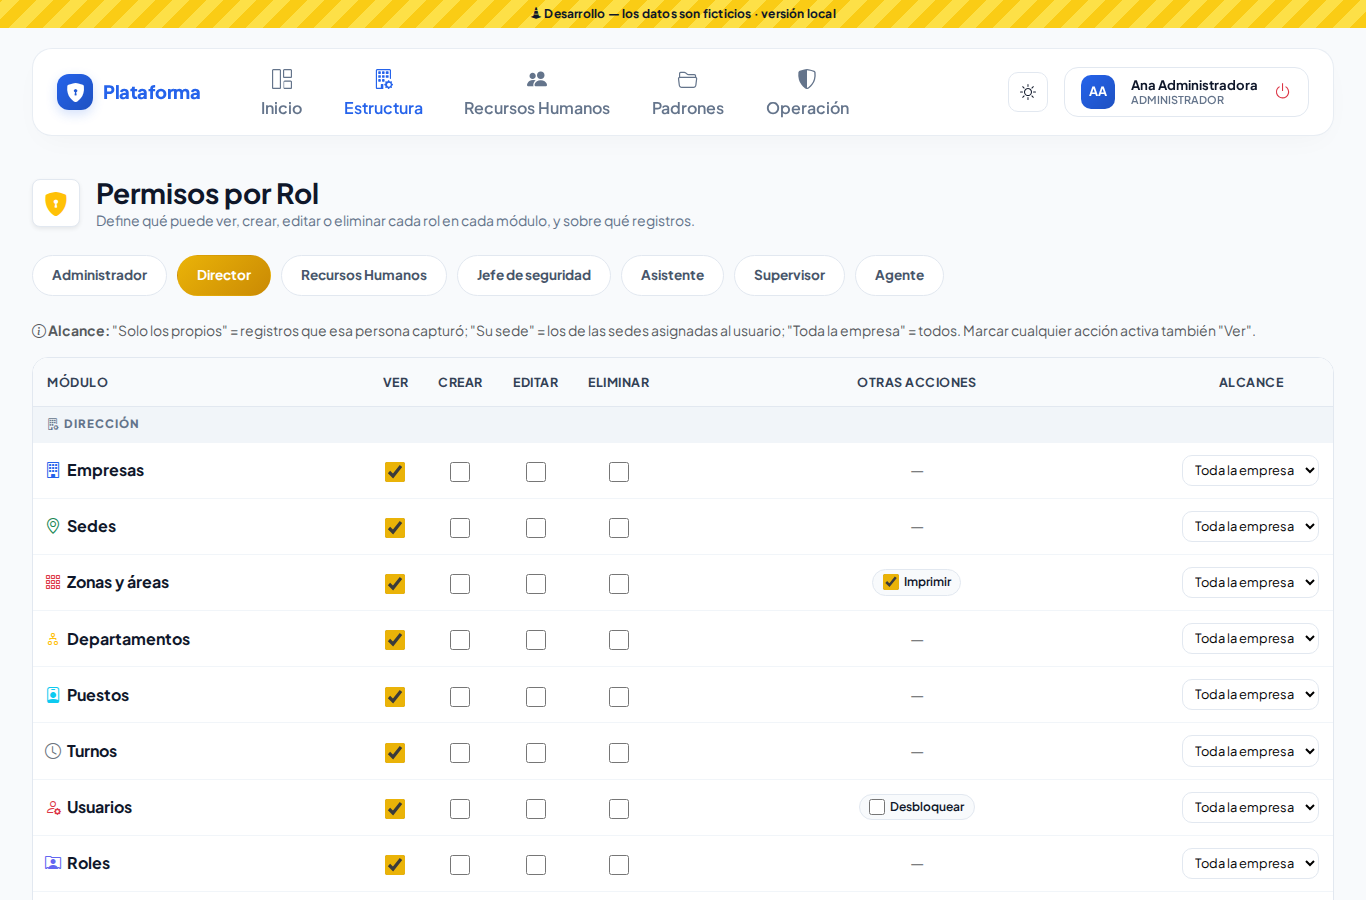
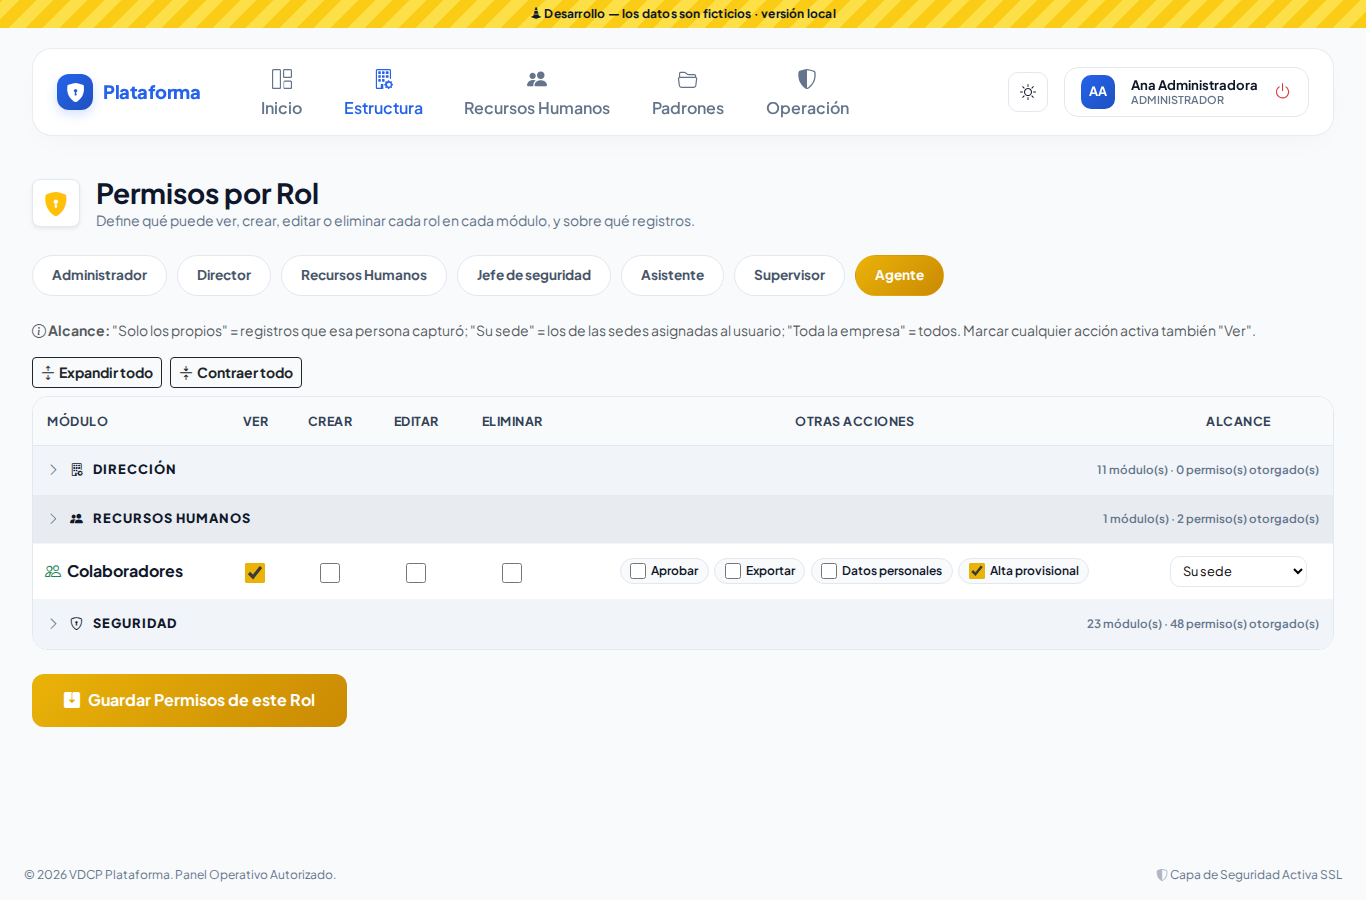
Sedes en todos los rubros y Matriz de permisos contraíble por área
- La sede se llama «Sede» en todos los rubros (antes Hoteles, Plantas, Torres o Privadas)
- Matriz de permisos: áreas Dirección, Recursos Humanos y Seguridad contraíbles, con resumen de módulos y permisos otorgados; Expandir/Contraer todo; recuerda las áreas abiertas
- Documentación y pruebas

Claude-Session: https://claude.ai/code/session_01HFWbyfgzN5Xp5ra6LHaA61

diff --git a/public/js/plataforma.js b/public/js/plataforma.js
@@ -1022,3 +1022,46 @@ document.addEventListener('click', function (e) {
     }
     dialogo.showModal();
 });
+
+/* Matriz de permisos: cada área (Dirección, Recursos Humanos, Seguridad) se abre y se cierra.
+   Se recuerda qué áreas dejó abiertas en la pestaña del navegador. */
+(function () {
+    'use strict';
+    var CLAVE = 'plataforma_areas_abiertas';
+
+    function abiertas() {
+        try { return JSON.parse(sessionStorage.getItem(CLAVE) || '[]'); } catch (x) { return []; }
+    }
+    function guardar() {
+        var ids = [];
+        document.querySelectorAll('[data-alternar-area][aria-expanded="true"]').forEach(function (b) { ids.push(b.dataset.alternarArea); });
+        try { sessionStorage.setItem(CLAVE, JSON.stringify(ids)); } catch (x) { /* sin almacenamiento */ }
+    }
+    function poner(boton, abrir) {
+        var cuerpo = document.getElementById(boton.dataset.alternarArea);
+        if (!cuerpo) { return; }
+        cuerpo.hidden = !abrir;
+        boton.setAttribute('aria-expanded', String(abrir));
+    }
+
+    document.addEventListener('click', function (e) {
+        var boton = e.target.closest('[data-alternar-area]');
+        if (boton) {
+            poner(boton, boton.getAttribute('aria-expanded') !== 'true');
+            guardar();
+            return;
+        }
+        var todas = e.target.closest('[data-areas-todas]');
+        if (todas) {
+            document.querySelectorAll('[data-alternar-area]').forEach(function (b) { poner(b, todas.dataset.areasTodas === 'abrir'); });
+            guardar();
+        }
+    });
+
+    document.addEventListener('DOMContentLoaded', function () {
+        var botones = document.querySelectorAll('[data-alternar-area]');
+        if (botones.length === 0) { return; }
+        var previas = abiertas();
+        botones.forEach(function (b) { poner(b, previas.indexOf(b.dataset.alternarArea) !== -1); });
+    });
+})();

diff --git a/public/css/plataforma.css b/public/css/plataforma.css
@@ -533,3 +533,12 @@ html.modo-noche .aviso-pendiente .icono { background: rgba(245, 158, 11, 0.2); c
 html.modo-noche .aviso-pendiente .boton { color: #fcd34d; }
 html.modo-sol .aviso-pendiente { background: #fff; border: 3px solid #000; color: #000; }
 html.modo-sol .aviso-pendiente .icono, html.modo-sol .aviso-pendiente .boton { color: #000; background: #fff; }
+
+/* Matriz de permisos: áreas contraíbles */
+.tabla-permisos tr.fila-area td { padding: 0; }
+.alternar-area { display: flex; align-items: center; gap: 0.55rem; width: 100%; min-height: 48px; padding: 0.6rem 0.9rem; background: transparent; border: none; text-align: left; font: inherit; font-size: 0.8rem; font-weight: 800; text-transform: uppercase; letter-spacing: 1px; color: var(--texto); cursor: pointer; }
+.alternar-area:hover { background: rgba(15, 23, 42, 0.04); }
+.alternar-area .flecha { transition: transform 0.2s; color: var(--texto-suave); }
+.alternar-area[aria-expanded="true"] .flecha { transform: rotate(90deg); }
+.alternar-area .resumen-area { margin-left: auto; font-size: 0.72rem; font-weight: 600; text-transform: none; letter-spacing: 0; color: var(--texto-suave); }
+@media (max-width: 575.98px) { .alternar-area .resumen-area { display: none; } }

diff --git a/resources/views/administracion/permisos/index.blade.php b/resources/views/administracion/permisos/index.blade.php
@@ -50,6 +50,11 @@
             @csrf
             @method('PUT')
 
+            <div class="d-flex flex-wrap gap-2 mb-2">
+                <button type="button" class="btn btn-sm btn-outline-dark fw-bold" data-areas-todas="abrir"><i class="bi bi-arrows-expand me-1" aria-hidden="true"></i>Expandir todo</button>
+                <button type="button" class="btn btn-sm btn-outline-dark fw-bold" data-areas-todas="cerrar"><i class="bi bi-arrows-collapse me-1" aria-hidden="true"></i>Contraer todo</button>
+            </div>
+
             <div class="tabla-scroll">
                 <table class="tabla-permisos">
                     <thead>
@@ -62,10 +67,25 @@
                             <th scope="col">Alcance</th>
                         </tr>
                     </thead>
-                    <tbody>
-                        @foreach ($areas as $area)
-                            <tr class="fila-area"><td colspan="{{ count($basicas) + 3 }}"><i class="bi {{ $area->icono }} me-1" aria-hidden="true"></i>{{ $area->nombre }}</td></tr>
-
+                    @foreach ($areas as $area)
+                        @php
+                            $idsArea = $area->modulosVisibles->pluck('id');
+                            $otorgados = $idsArea->sum(fn ($id) => ($actuales[$id] ?? collect())->count());
+                        @endphp
+                        {{-- Cada área se contrae: un tbody para el título y otro para sus módulos --}}
+                        <tbody>
+                            <tr class="fila-area">
+                                <td colspan="{{ count($basicas) + 3 }}">
+                                    <button type="button" class="alternar-area" data-alternar-area="area-{{ $area->clave }}" aria-controls="area-{{ $area->clave }}" aria-expanded="false">
+                                        <i class="bi bi-chevron-right flecha" aria-hidden="true"></i>
+                                        <i class="bi {{ $area->icono }}" aria-hidden="true"></i>
+                                        <span>{{ $area->nombre }}</span>
+                                        <span class="resumen-area" data-resumen-area>{{ $area->modulosVisibles->count() }} módulo(s) · {{ $otorgados }} permiso(s) otorgado(s)</span>
+                                    </button>
+                                </td>
+                            </tr>
+                        </tbody>
+                        <tbody id="area-{{ $area->clave }}" class="modulos-area" hidden>
                             @foreach ($area->modulosVisibles as $modulo)
                                 @php
                                     $tiene = ($actuales[$modulo->id] ?? collect())->keyBy('accion');
@@ -128,8 +148,8 @@
                                     </td>
                                 </tr>
                             @endforeach
-                        @endforeach
-                    </tbody>
+                        </tbody>
+                    @endforeach
                 </table>
             </div>
 

diff --git a/tests/Feature/Direccion/PendientesDireccionTest.php b/tests/Feature/Direccion/PendientesDireccionTest.php
@@ -5,6 +5,8 @@ namespace Tests\Feature\Direccion;
 use App\Models\Auditoria;
 use App\Models\Colaborador;
 use App\Models\Empresa;
+use App\Models\Rol;
+use App\Models\Rubro;
 use App\Models\Sede;
 use App\Models\User;
 use App\Services\Permisos\AdministradorRoles;
@@ -128,5 +130,29 @@ class PendientesDireccionTest extends TestCase
 
         $this->actingAs($rh)->get('/')->assertSee('1 alta provisional por validar')->assertSee('registro=provisional', false);
         $this->assertSame(1, app(Tenant::class)->conEmpresa($this->empresa->id, fn () => Colaborador::where('provisional', true)->count()));
+    }
+
+    // ------------------------------------------- Sedes y Matriz contraíble
+
+    public function test_las_sedes_se_llaman_sedes_en_todos_los_rubros(): void
+    {
+        foreach (Rubro::all() as $rubro) {
+            $this->assertSame('Sede', $rubro->terminologia['sede'], $rubro->clave);
+            $this->assertSame('Sedes', $rubro->terminologia['sedes'], $rubro->clave);
+        }
+        $this->actingAs($this->admin)->get('/sedes')->assertSee('Alta Sedes')->assertSee('Nueva Sede')->assertDontSee('Hoteles');
+    }
+
+    public function test_la_matriz_agrupa_por_area_contraible_con_resumen(): void
+    {
+        $agente = Rol::where('empresa_id', $this->empresa->id)->where('nombre', 'Agente')->firstOrFail();
+
+        $this->actingAs($this->admin)->get("/permisos?rol={$agente->id}")->assertOk()
+            ->assertSee('data-alternar-area="area-direccion"', false)
+            ->assertSee('data-alternar-area="area-recursos_humanos"', false)
+            ->assertSee('data-alternar-area="area-seguridad"', false)
+            ->assertSee('id="area-seguridad" class="modulos-area" hidden', false)
+            ->assertSee('permiso(s) otorgado(s)')
+            ->assertSee('Expandir todo');
     }
 }

diff --git a/database/seeders/RubrosSeeder.php b/database/seeders/RubrosSeeder.php
@@ -11,9 +11,9 @@ class RubrosSeeder extends Seeder
     {
         $rubros = [
             'hotel' => ['Hotel', ['sede' => 'Sede', 'sedes' => 'Sedes', 'area_especifica' => 'Habitación', 'visitante' => 'Huésped']],
-            'corporativo' => ['Corporativo / industria', ['sede' => 'Planta', 'sedes' => 'Plantas', 'area_especifica' => 'Oficina', 'visitante' => 'Visitante']],
-            'condominio' => ['Condominio', ['sede' => 'Torre', 'sedes' => 'Torres', 'area_especifica' => 'Departamento', 'visitante' => 'Visita', 'colaborador' => 'Residente']],
-            'fraccionamiento' => ['Fraccionamiento', ['sede' => 'Privada', 'sedes' => 'Privadas', 'area_especifica' => 'Casa', 'visitante' => 'Visita', 'colaborador' => 'Residente']],
+            'corporativo' => ['Corporativo / industria', ['sede' => 'Sede', 'sedes' => 'Sedes', 'area_especifica' => 'Oficina', 'visitante' => 'Visitante']],
+            'condominio' => ['Condominio', ['sede' => 'Sede', 'sedes' => 'Sedes', 'area_especifica' => 'Departamento', 'visitante' => 'Visita', 'colaborador' => 'Residente']],
+            'fraccionamiento' => ['Fraccionamiento', ['sede' => 'Sede', 'sedes' => 'Sedes', 'area_especifica' => 'Casa', 'visitante' => 'Visita', 'colaborador' => 'Residente']],
         ];
 
         foreach ($rubros as $clave => [$nombre, $terminologia]) {

diff --git a/resources/views/administracion/empresas/index.blade.php b/resources/views/administracion/empresas/index.blade.php
@@ -161,7 +161,7 @@
                         @endif
                     </div>
                     @if ($esSuperadmin && $esNueva)
-                        <p class="campo-ayuda mb-3"><i class="bi bi-info-circle" aria-hidden="true"></i> El rubro define cómo se llaman las sedes (Hoteles, Plantas, Torres…). Al crearla se activan sus módulos y se copian los roles base.</p>
+                        <p class="campo-ayuda mb-3"><i class="bi bi-info-circle" aria-hidden="true"></i> El rubro define la terminología de la operación (Habitación, Oficina, Departamento, Casa…). Al crearla se activan sus módulos y se copian los roles base.</p>
                     @endif
 
                     <label class="campo-etiqueta" for="{{ $modo }}_zona">Zona Horaria</label>

diff --git a/app/Support/Menu/ConstructorMenu.php b/app/Support/Menu/ConstructorMenu.php
@@ -19,7 +19,7 @@ class ConstructorMenu
 {
     /**
      * Modulos cuyo nombre cambia segun el rubro de la empresa
-     * (p. ej. "Sedes" se llama "Hoteles" en un hotel).
+     * (p. ej. "Habitación" u "Oficina" según el rubro; las sedes siempre se llaman "Sedes").
      */
     private const TERMINOLOGIA = ['sedes' => 'sedes'];
 

diff --git a/app/Http/Controllers/Administracion/SedeController.php b/app/Http/Controllers/Administracion/SedeController.php
@@ -21,7 +21,7 @@ use Illuminate\View\View;
 
 /**
  * Sedes (réplica de modules/hoteles/hotel_lista.php de SEGCAT). El nombre de la
- * pantalla sale del rubro: Hoteles, Plantas, Torres, Privadas...
+ * pantalla sale de la terminología del rubro (hoy, en todos los rubros, "Sedes").
  */
 class SedeController extends Controller
 {

diff --git a/docs/tecnico/acceso-y-diseno.md b/docs/tecnico/acceso-y-diseno.md
@@ -87,7 +87,7 @@ Tabla `menus` (botones de la barra: Estructura, Padrones, Operación) y, en `mod
 - Un módulo aparece solo si el usuario puede `modulo.ver` (el motor revisa también que la empresa lo tenga contratado).
 - Un menú o una sección sin módulos visibles se oculta.
 - En celular los grupos se ordenan por `orden_movil`: Operación primero, como en SEGCAT.
-- El nombre visible sale, en este orden, de: el nombre que le dio la empresa (`empresa_modulos.nombre_visible`), la terminología del rubro (en un hotel, "Sedes" se llama "Hoteles") y el nombre del catálogo.
+- El nombre visible sale, en este orden, de: el nombre que le dio la empresa (`empresa_modulos.nombre_visible`), la terminología del rubro (por ejemplo, el área específica es "Habitación" en un hotel y "Oficina" en un corporativo) y el nombre del catálogo.
 - La barra inferior del celular tiene atajos fijos a Novedades y Accesos si el usuario puede verlos.
 - `MenuSeeder` solo acomoda módulos sin menú; lo que se cambie desde la interfaz se respeta.
 - Mientras un módulo no tenga `ruta`, su enlace lleva a la pantalla "en migración".

diff --git a/docs/tecnico/empresas-y-sedes.md b/docs/tecnico/empresas-y-sedes.md
@@ -16,7 +16,7 @@ Réplica de `modules/empresas/empresa_lista.php` y `modules/hoteles/hotel_lista.
 
 ## Sedes (`/sedes`)
 
-El nombre de la pantalla sale de la terminología del rubro: Hoteles, Plantas, Torres o Privadas.
+El nombre de la pantalla sale de la terminología del rubro. Por decisión del cliente (QA, 2026-10-04) en todos los rubros se llama **Sedes**; el resto de la terminología (Habitación, Oficina, Departamento, Casa; Huésped, Visita…) sí cambia por rubro.
 
 - **Campos de SEGCAT:** nombre, código, ciudad, estado (`entidad`), calle y número, colonia, código postal y teléfono. Se agrega la **zona horaria propia**, que es opcional: vacía significa la de la empresa (`Sede::zonaHoraria()`).
 - **Código:** solo letras, números y guiones, en mayúsculas. Es **único por empresa**; en SEGCAT `codigo_hotel` era único en toda la plataforma.

diff --git a/CHANGELOG.md b/CHANGELOG.md
@@ -3,6 +3,8 @@
 Formato: [versiones semánticas](https://semver.org/lang/es/) — MAYOR.MENOR.PARCHE.
 
 ## [Sin publicar]
+- Las sedes se llaman «Sedes» en todos los rubros (antes Hoteles, Plantas, Torres o Privadas).
+- Matriz de permisos: cada área (Dirección, Recursos Humanos, Seguridad) se contrae y muestra cuántos permisos tiene otorgados; botones Expandir todo / Contraer todo.
 - Las fechas se muestran en la hora local de la sede o de la empresa (antes salían en hora universal, 5 horas adelante en Cancún).
 - Pantallas de error en español (sin permiso, no encontrado, sesión expirada, demasiados intentos, error del sistema, mantenimiento).
 - Bitácora de auditoría: consulta legible de quién hizo qué y cuándo, con filtros, detalle de antes y después y exportación a Excel.

diff --git a/docs/usuario/roles-y-permisos.md b/docs/usuario/roles-y-permisos.md
@@ -60,3 +60,9 @@ Arriba aparece **Empresa de trabajo**:
 
 - **Plantillas de la plataforma:** son los roles y permisos que recibe cada empresa nueva al darse de alta.
 - **Una empresa:** administras sus roles como si fueras su administrador.
+
+### Áreas contraíbles
+
+Los permisos están agrupados en **Dirección**, **Recursos Humanos** y **Seguridad**. Toca el nombre de un área para abrirla o cerrarla; a la derecha ves cuántos módulos tiene y cuántos permisos lleva otorgados ese rol. Con **Expandir todo** y **Contraer todo** abres o cierras todas a la vez. Las áreas que dejes abiertas siguen abiertas al cambiar de rol.
+
+![Matriz por áreas](img/roles/6-matriz-por-areas.png)
